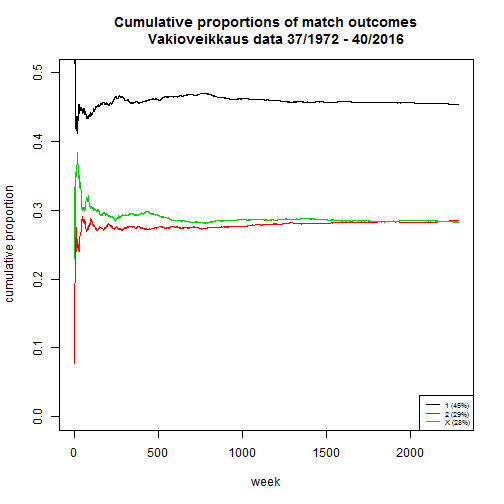
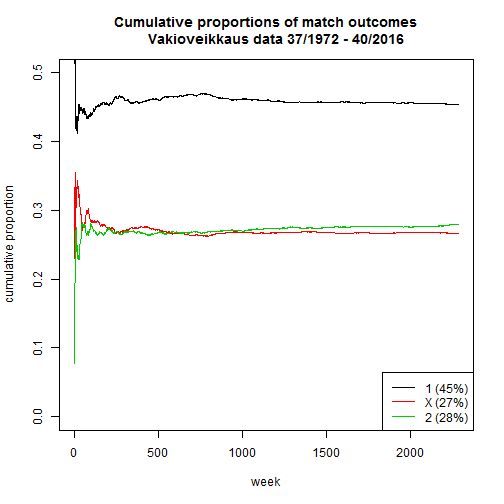
update readme

Changed region(s): [[0.1488, 0.3274, 0.9226, 0.5357], [0.8036, 0.744, 0.9524, 0.8631]]

diff --git a/README.md b/README.md
@@ -40,7 +40,7 @@ sum(results)/simsize
 ```
 
 ```
-## [1] 4e-04
+## [1] 0.0017
 ```
 
 
@@ -56,19 +56,11 @@ These codes are also found in outcome_proportions.R
 rivit <- read.csv2("Tilastot.csv", stringsAsFactors = FALSE)
 nr <- nrow(rivit)
 
-# create a list of tables of 1 x 2 frequencies
-freqs <- apply(rivit, 1, table)
+# create a data.frame storing tables of outcome ("1", "x", "2") frequencies
 
-# combine the lists to a data.frame (ignore warning)
-freqs <- as.data.frame(do.call(rbind, freqs))
-```
+freqs <- apply(rivit, 1, FUN = function(row) table(factor(row, levels = c("1","X","2"))))
+freqs <- as.data.frame(t(freqs))
 
-```
-## Warning in (function (..., deparse.level = 1) : number of columns of result
-## is not a multiple of vector length (arg 10)
-```
-
-```r
 # compute cumulative frequencies
 cum_freqs <- cumsum(freqs)
 
@@ -91,7 +83,7 @@ for(i in 1:3) {
 # add a legend to the plot
 outcomes <- names(cum_prop)
 outcomes <- paste0(outcomes, " (", round(100*cum_prop[nr, ],0), "%)")
-legend("bottomright", legend = outcomes, col = 1:3, lty = 1, cex = 0.6, pt.cex = 1)
+legend("bottomright", legend = outcomes, col = 1:3, lty = 1)
 ```
 
 ![plot of chunk unnamed-chunk-2](figure/unnamed-chunk-2-1.png)
